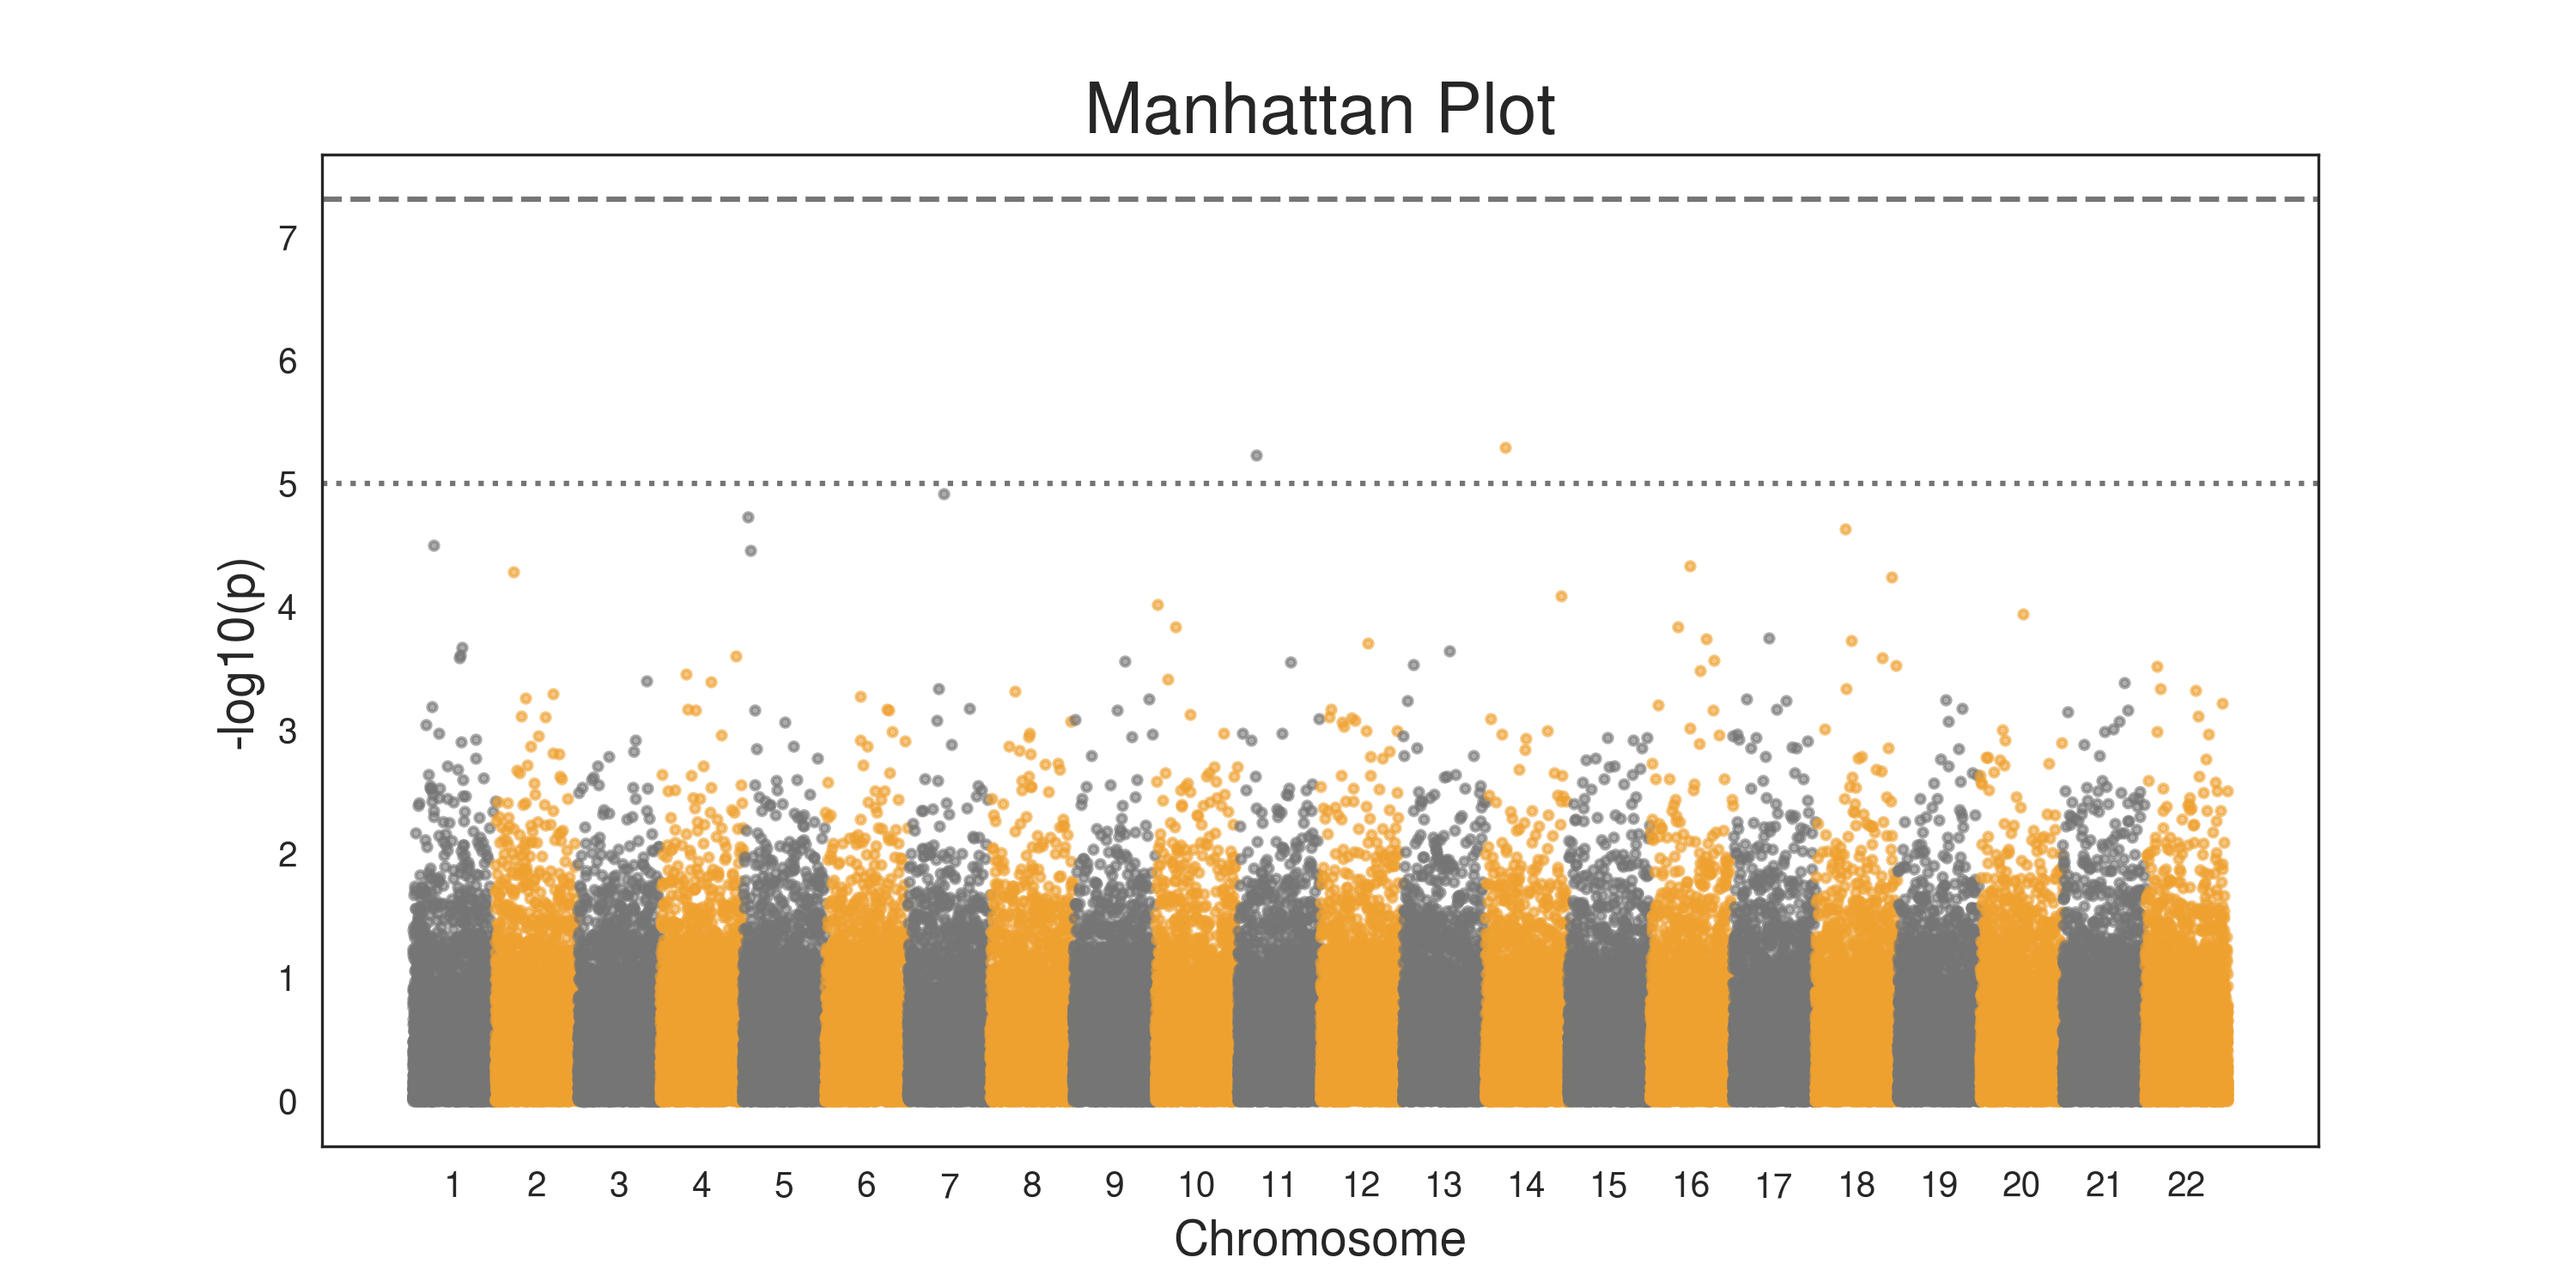
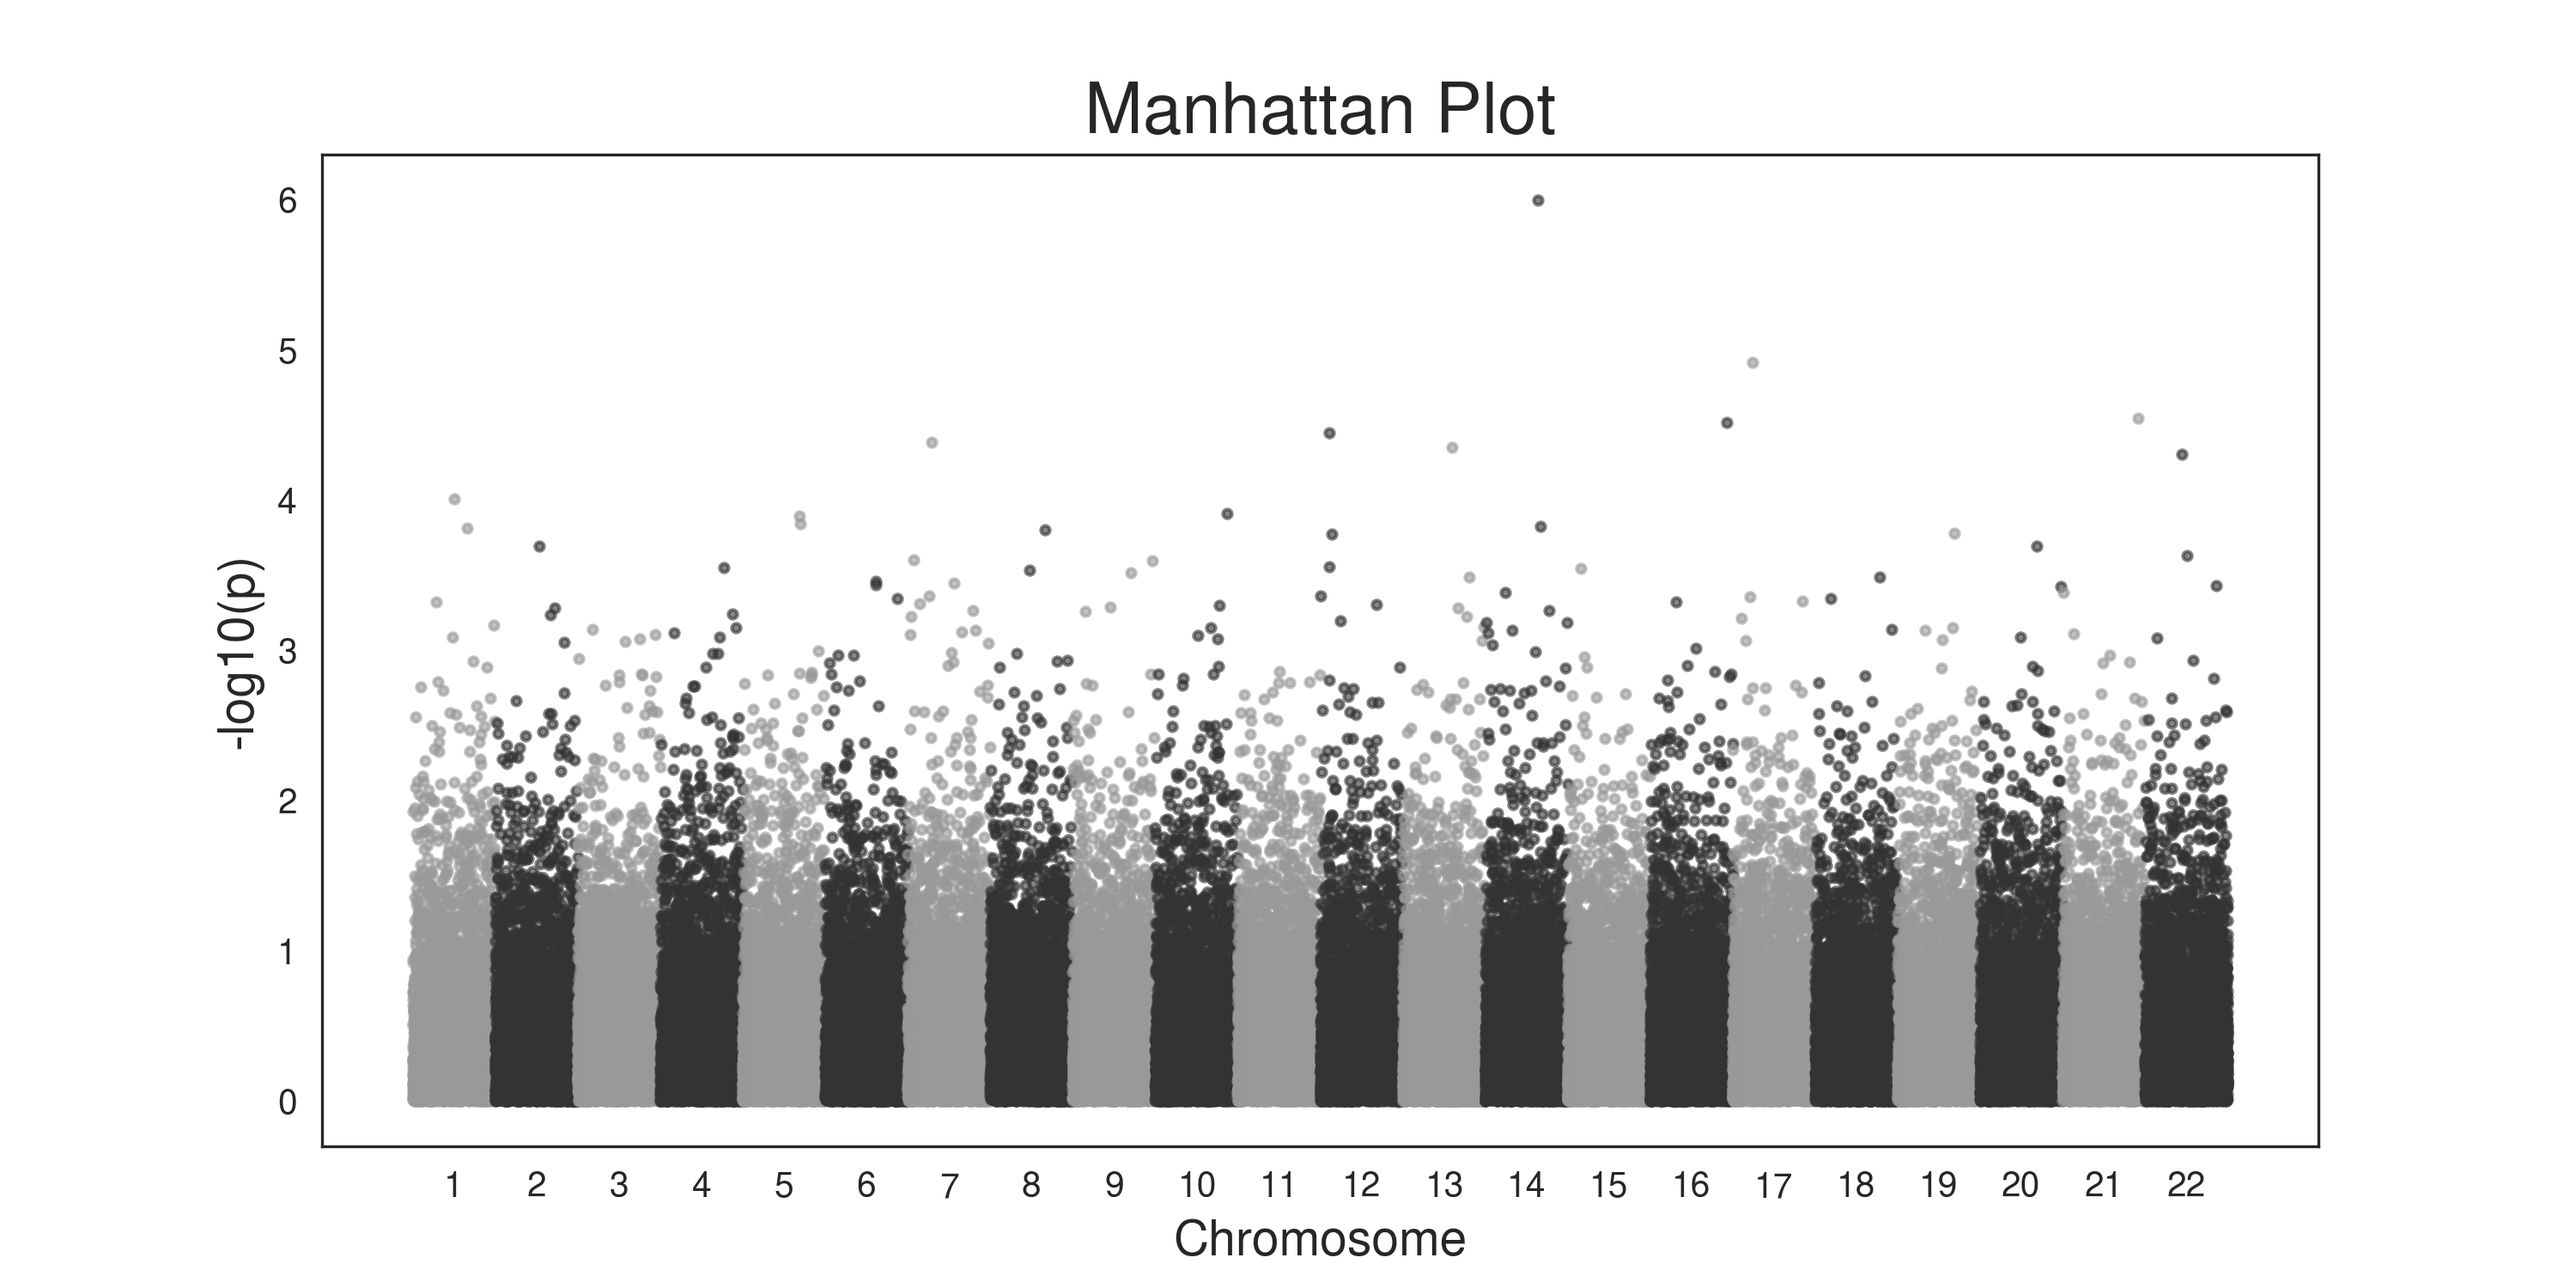
Adding palette to template plots

diff --git a/plotkit/plots.py b/plotkit/plots.py
@@ -10,8 +10,9 @@ def manhattan_plot(
     pos,
     pval,
     ax=None,
-    genomewide_line=5e-8,
-    suggestive_line=1e-5,
+    palette=None,
+    genomewide_line=None, #5e-8,
+    suggestive_line=None, #1e-5,
     title="Manhattan Plot"
 ):
     """
@@ -34,7 +35,8 @@ def manhattan_plot(
     if ax is None:
         fig, ax = plt.subplots(figsize=(10, 5))
 
-    palette = apply_auto_theme("gwas")
+    if palette is None:
+        palette = apply_auto_theme("gwas")
 
     # Sort by chromosome and position
     order = np.lexsort((pos, chrom))
@@ -76,9 +78,9 @@ def manhattan_plot(
         )
 
     # Significance lines
-    if genomewide_line:
+    if genomewide_line is not None:
         ax.axhline(-np.log10(genomewide_line), linestyle="--")
-    if suggestive_line:
+    if suggestive_line is not None:
         ax.axhline(-np.log10(suggestive_line), linestyle=":")
 
     ax.set_xticks(xticks)
@@ -90,7 +92,7 @@ def manhattan_plot(
     return ax
 
 
-def qq_plot(pval, ax=None, title="QQ Plot", show_lambda=True):
+def qq_plot(pval, ax=None, palette=None, title="QQ Plot", show_lambda=True):
     """
     Generate a QQ plot for GWAS p-values.
     """
@@ -101,7 +103,8 @@ def qq_plot(pval, ax=None, title="QQ Plot", show_lambda=True):
 
     n = len(pval)
 
-    palette = apply_auto_theme("qq")
+    if palette is None:
+        palette = apply_auto_theme("qq")
     
     if ax is None:
         fig, ax = plt.subplots(figsize=(5, 5))
@@ -134,6 +137,7 @@ def ld_heatmap(
     cmap=None,
     vmin=0,
     vmax=1,
+    palette=None,
     title="LD Heatmap",
     show_colorbar=True
 ):
@@ -152,7 +156,8 @@ def ld_heatmap(
         fig, ax = plt.subplots(figsize=(5, 5))
 
     # Apply theme
-    palette = apply_auto_theme("ld_heatmap")
+    if palette is None:
+        palette = apply_auto_theme("ld_heatmap")
 
     if cmap is None:
         cmap = sns.color_palette(palette)

diff --git a/demo/demo_plot.py b/demo/demo_plot.py
@@ -6,7 +6,6 @@ from plotkit.palettes import PALETTES
 
 # Automatically configure everything
 palette = apply_auto_theme("scatter", n_colors=1, font="Nimbus Sans")
-print(palette)
 
 x = np.random.randn(100)
 y = np.random.randn(100)
@@ -26,9 +25,9 @@ pval = np.random.uniform(0, 1, n)
 
 # Apply GWAS theme
 apply_auto_theme("gwas")
-
+grey_palette = ["#999999", "#333333"]
 # Manhattan
-ax = manhattan_plot(chrom, pos, pval)
+ax = manhattan_plot(chrom, pos, pval, palette=grey_palette)
 ax.figure.savefig("manhattan_demo.png", dpi=300)
 
 # QQ

diff --git a/plotkit/themes.py b/plotkit/themes.py
@@ -147,7 +147,7 @@ def _apply_figure_fontsize(fig, font_scale=1.0):
         "legend.fontsize": 9 * scale,
     })
 
-def add_panel_labels(fig, axes, labels=None, x=-0.1, y=1.05):
+def add_panel_labels(fig, axes, labels=None, x=-0.08, y=1.05):
     """
     Add panel labels like A, B, C...
     """
